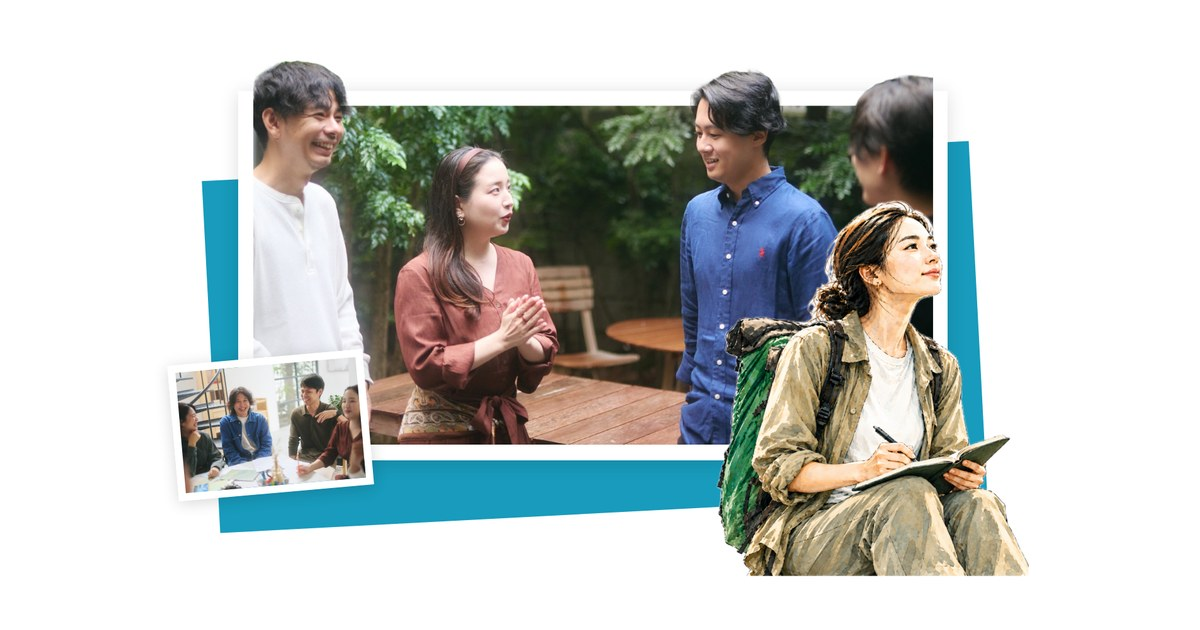
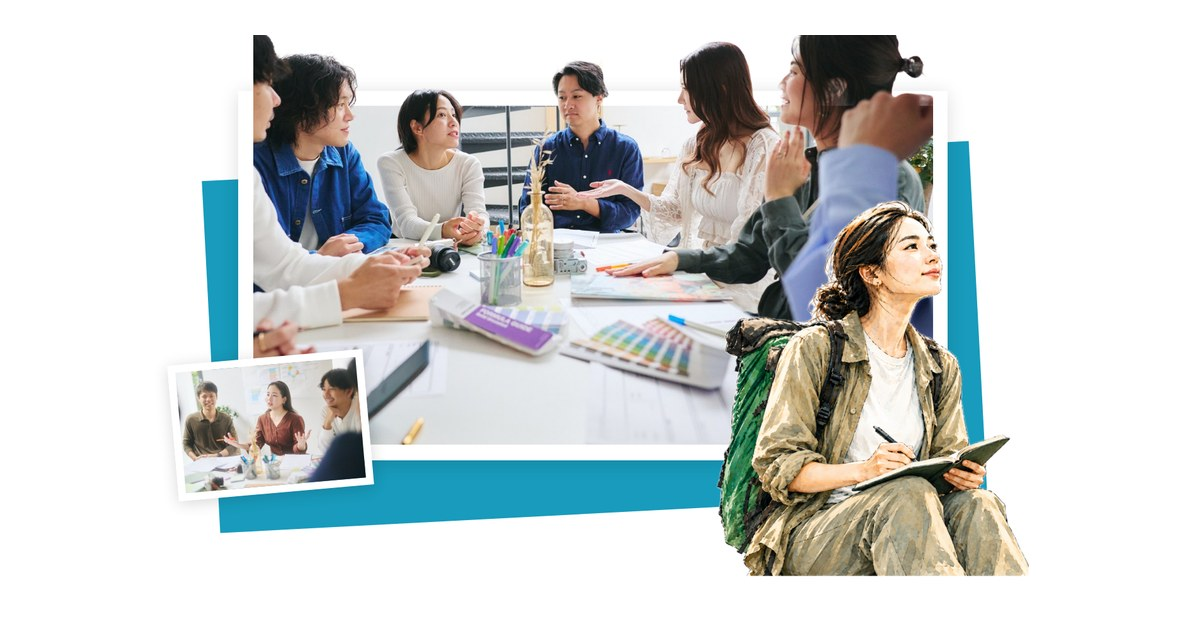
体験会・20代後半 v3：写真をFigmaにそろえる（KV No.365、問い No.802、3つの約束 No.321、小さい写真 No.422）

Changed region(s): [[0.1233, 0.0302, 0.8017, 0.7841], [0.74, 0.4825, 0.8017, 0.5429]]

diff --git a/event-20s-v3-261217/index.html b/event-20s-v3-261217/index.html
@@ -396,10 +396,10 @@ height="0" width="0" style="display:none;visibility:hidden"></iframe></noscript>
 <!-- ===== 冒頭 ===== -->
 <section class="fv">
   <div class="fv-top">
-    <div class="kv-art" role="img" aria-label="庭で立ち話をしている4人">
+    <div class="kv-art" role="img" aria-label="机を囲んで話している人たち">
       <div class="kv-plane"></div>
       <div class="kv-frame"></div>
-      <div class="kv-ph"><img class="full" src="images/kv_garden_four.jpg" alt=""><img class="top" src="images/kv_garden_four_top.png" alt=""></div>
+      <div class="kv-ph"><img class="full" src="images/kv_table_365.jpg" alt=""><img class="top" src="images/kv_table_365_top.png" alt=""></div>
       <img class="kv-sub" src="images/kv_sub.jpg" alt="">
       <img class="kv-woman" src="images/kv_woman.png" alt="">
     </div>
@@ -432,7 +432,7 @@ height="0" width="0" style="display:none;visibility:hidden"></iframe></noscript>
 <!-- ===== 当日の問い ===== -->
 <section class="q off">
   <div class="in" style="padding-inline:0">
-    <figure class="q-photo"><img src="images/question_table.jpg" alt="紙を前に頬杖をついて考えている" loading="lazy" style="object-position:0% 50%"></figure>
+    <figure class="q-photo"><img src="images/question_802.jpg" alt="ソファでタブレットに書いている" loading="lazy" style="object-position:35% 8%"></figure>
     <div class="q-sheet paper">
       <p class="q-label">当日は、この問いと向き合います</p>
       <p class="q-text">ここまで<br>走ってきたなかで、<br><span class="nb">手応えのあった瞬間は、</span><br>どんなときでしたか？</p>
@@ -479,7 +479,7 @@ height="0" width="0" style="display:none;visibility:hidden"></iframe></noscript>
 <section class="rules off">
   <div class="in">
     <h2 class="h2">3つの約束</h2>
-    <figure class="rules-photo tilt b"><img src="images/rules_listen.jpg" alt="あごに手を当てて話を聞いている" loading="lazy"></figure>
+    <figure class="rules-photo tilt b"><img src="images/rules_321.jpg" alt="ソファに座って笑っている" loading="lazy" style="object-position:50% 12%"></figure>
     <div class="rules-card paper">
       <ol class="rules-list">
         <li><b class="rules-no">1</b><span>上手なことばにしなくてもいい</span></li>
